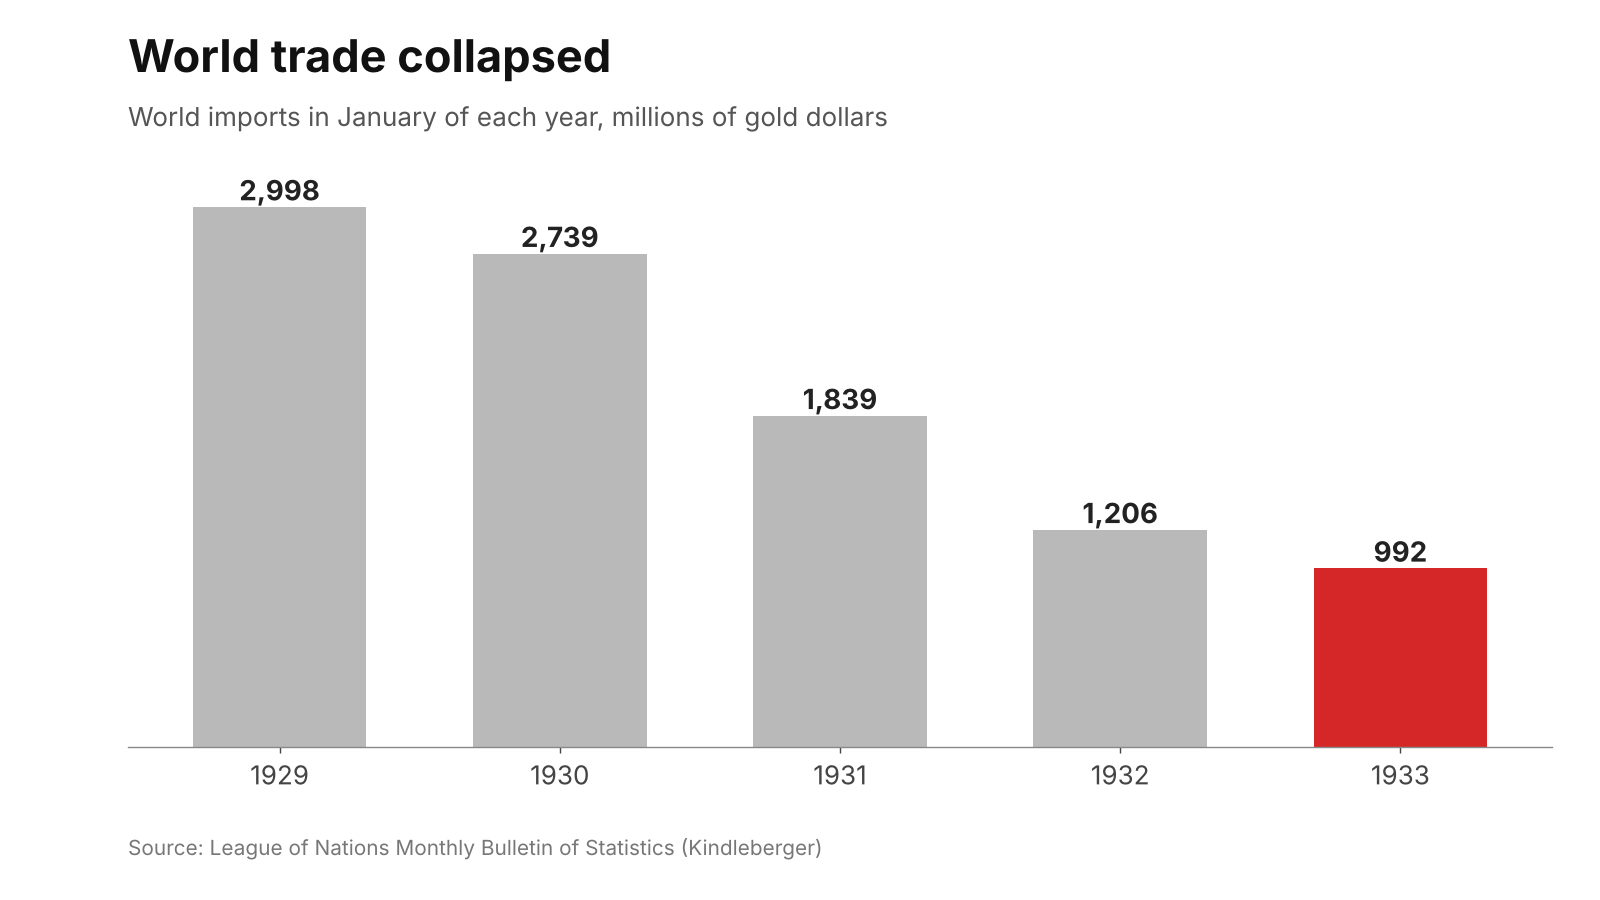
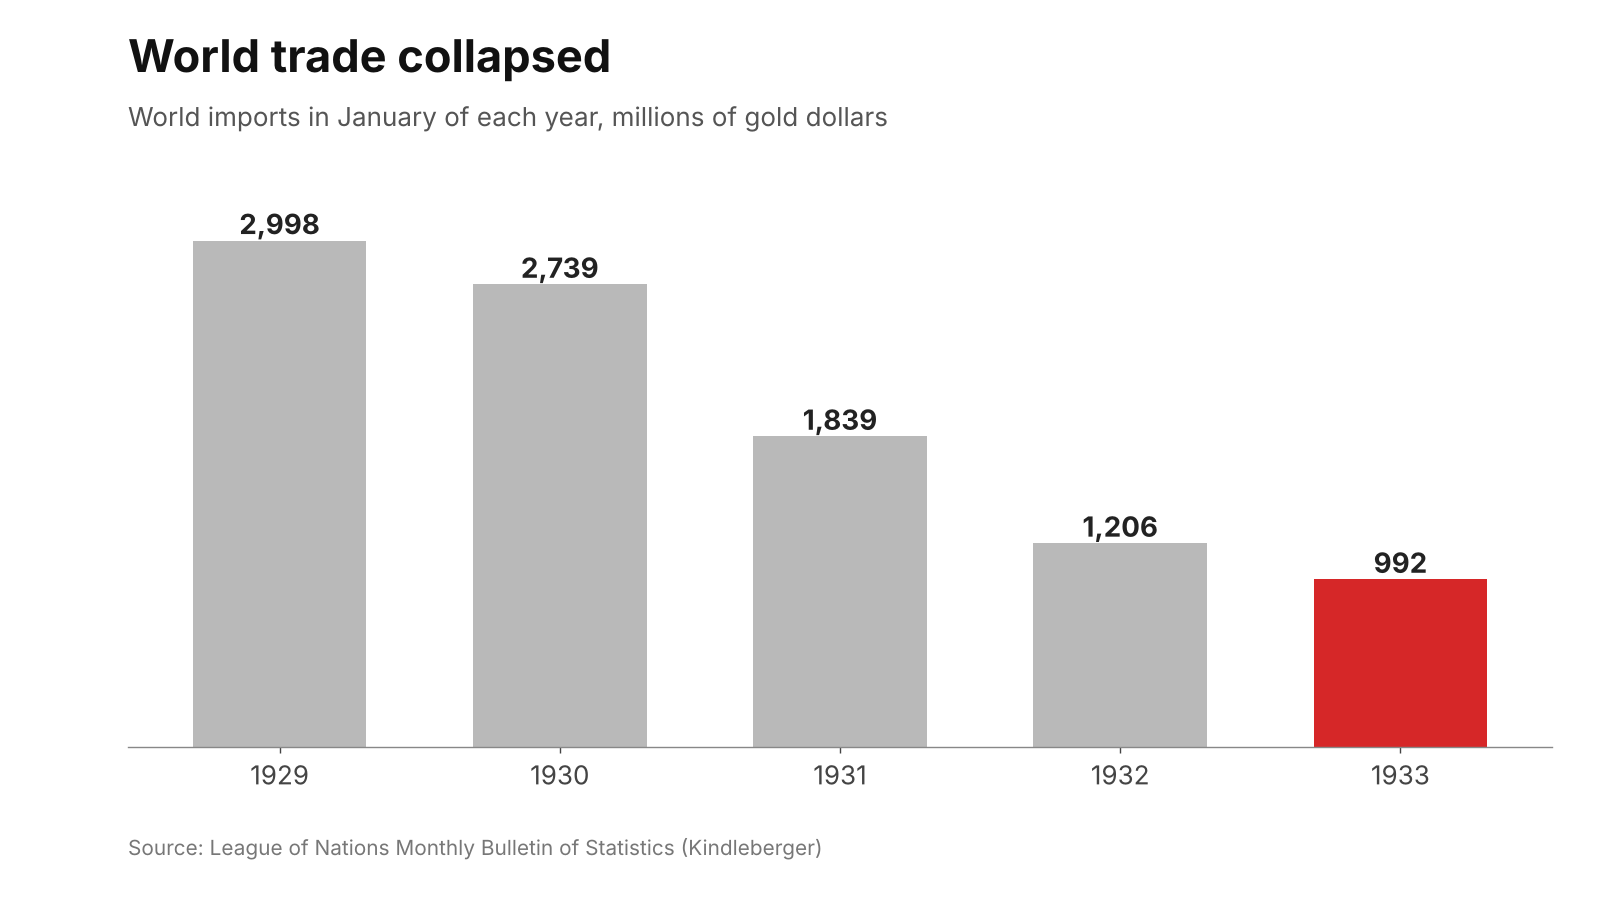
Charts build themselves on screen (bars grow with counting numbers, lines draw)
Claude-Session: https://claude.ai/code/session_01XXmHHnXm8aQNuJNxfUNSfU

diff --git a/tools/make_charts.py b/tools/make_charts.py
@@ -25,7 +25,7 @@ def fmt(v, unit):
     if unit == "$B":
         return f"${v:,.1f}B".replace(".0B", "B")
     if unit == "$T":
-        return f"${v:g}T"
+        return f"${round(v, 1 if v >= 1 else 2):g}T"
     if unit == "$Bn":
         return f"${v:,.0f}B"
     if unit == "%":
@@ -33,16 +33,30 @@ def fmt(v, unit):
     return f"{v:,.0f}"
 
 
-def chart(c, out):
+FRAMES = 14                        # the video plays ch_<key>_f00..f13 first, so bars grow and lines draw themselves
+
+
+def chart(c, out, p=1.0):
+    """p = how far the chart has built up (0..1): bars grow from zero with counting numbers, lines draw left to right."""
     fig, ax = plt.subplots(figsize=(12.8, 7.2), dpi=125)
     fig.subplots_adjust(left=0.08, right=0.97, top=0.8, bottom=0.17)
     x, y, mark = c["x"], c["y"], set(c.get("mark", []))
     if c["type"] == "line":
-        ax.plot(x, y, color=NAVY, lw=3)
+        n = max(2, int(round(1 + p * (len(x) - 1))))
+        xs, ys = list(x[:n]), list(y[:n])
+        if p < 1 and n < len(x):                      # smooth tip between two points
+            f = p * (len(x) - 1) - (n - 1)
+            xs.append(x[n - 1] + (x[n] - x[n - 1]) * max(0, f)); ys.append(y[n - 1] + (y[n] - y[n - 1]) * max(0, f))
+        ax.plot(xs, ys, color=NAVY, lw=3)
+        ax.set_xlim(min(x) - (max(x) - min(x)) * 0.03, max(x) + (max(x) - min(x)) * 0.03)
+        ax.set_ylim(min(0, min(y)), max(y) * 1.15)
         for i in mark:
-            ax.scatter([x[i]], [y[i]], s=90, color=RED, zorder=5)
+            if i < n:
+                ax.scatter([x[i]], [y[i]], s=90, color=RED, zorder=5)
         for i, t in c.get("notes", {}).items():
             i = int(i)
+            if i >= n:
+                continue
             ax.annotate(t, (x[i], y[i]), xytext=(0, 18 if y[i] > min(y) * 1.5 else -34), textcoords="offset points",
                         ha="right" if i == len(x) - 1 else "left" if i == 0 else "center", fontsize=15, fontweight="bold", color=RED)
         ax.grid(axis="y", color="#e6e6e6")
@@ -50,10 +64,12 @@ def chart(c, out):
         cols = [c.get("colors", {}).get(str(i)) or (RED if i in mark else NAVY if mark else NAVY) for i in range(len(y))]
         if mark:
             cols = [cl if i in mark else GREY for i, cl in enumerate(cols)]
-        bars = ax.bar([str(v) for v in x], y, color=cols, width=0.62)
+        e = 1 - (1 - p) ** 3                           # ease out
+        bars = ax.bar([str(v) for v in x], [v * e for v in y], color=cols, width=0.62)
+        ax.set_ylim(0, max(y) * 1.12)
         for b, v in zip(bars, y):
-            ax.text(b.get_x() + b.get_width() / 2, b.get_height(), fmt(v, c.get("unit", "")), ha="center",
-                    va="bottom", fontsize=16, fontweight="bold", color="#222")
+            ax.text(b.get_x() + b.get_width() / 2, b.get_height(), fmt(v * e if p < 1 else v, c.get("unit", "")),
+                    ha="center", va="bottom", fontsize=16, fontweight="bold", color="#222")
         ax.set_yticks([])
         ax.spines["left"].set_visible(False)
     fig.text(0.08, 0.92, c["title"], fontsize=26, fontweight="bold", color="#111")
@@ -69,6 +85,8 @@ def main(vdir):
     os.makedirs(out, exist_ok=True)
     for c in spec:
         chart(c, os.path.join(out, f"ch_{c['key']}.png"))
+        for k in range(FRAMES):
+            chart(c, os.path.join(out, f"ch_{c['key']}_f{k:02d}.png"), (k + 1) / (FRAMES + 1))
     print(f"{len(spec)} charts -> {out}")
 
 

diff --git a/tools/make_video.py b/tools/make_video.py
@@ -502,8 +502,17 @@ def doc_marked(vdir, e, ages):
     return _marked[key]
 
 
+CHART_GROW = 1.4                     # seconds a data chart takes to build itself (bars grow, lines draw)
+
+
 def draw_doc(canvas, vdir, e, t, boxes):
-    """The whole screenshot, standing still, scaled to fit inside w x h of the screen (never cut)."""
+    """The whole screenshot, standing still, scaled to fit inside w x h of the screen (never cut).
+    A data chart (ch_<key>.png with ch_<key>_fNN.png frames) builds itself up in its first CHART_GROW seconds."""
+    if e["file"].startswith("ch_") and 0 <= t - e["t0"] < CHART_GROW:
+        k = int((t - e["t0"]) / CHART_GROW * 14)
+        f = e["file"][:-4] + f"_f{k:02d}.png"
+        if os.path.exists(os.path.join(vdir, "02_assets", "screens", f)):
+            e = {**e, "file": f, "motion": "none"}
     base = doc_base(vdir, e)
     iw, ih = base.size
     k = min(e["w"] * W / iw, e["h"] * H / ih)
